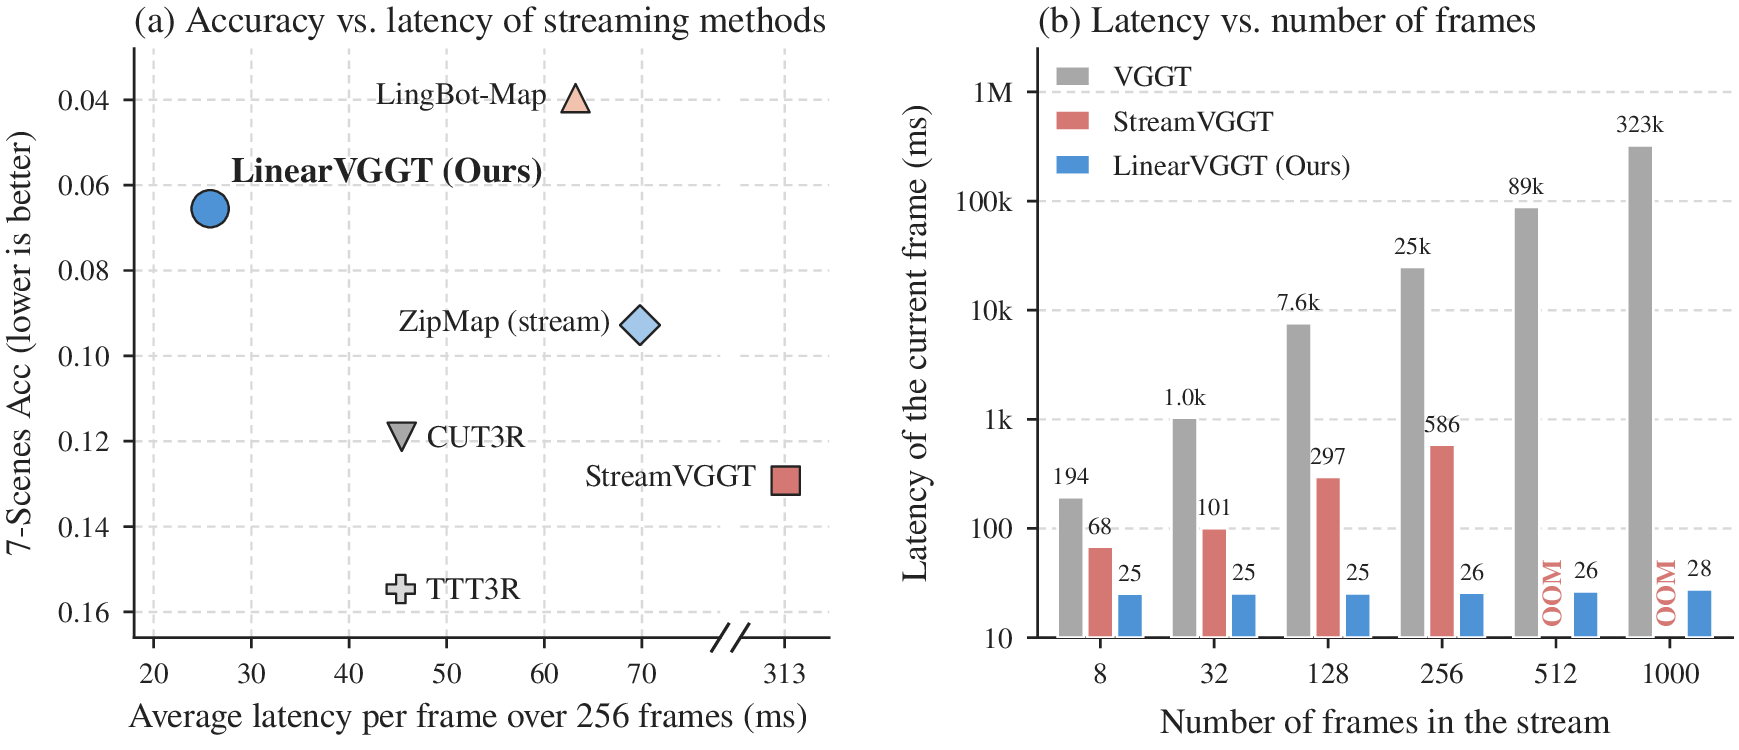
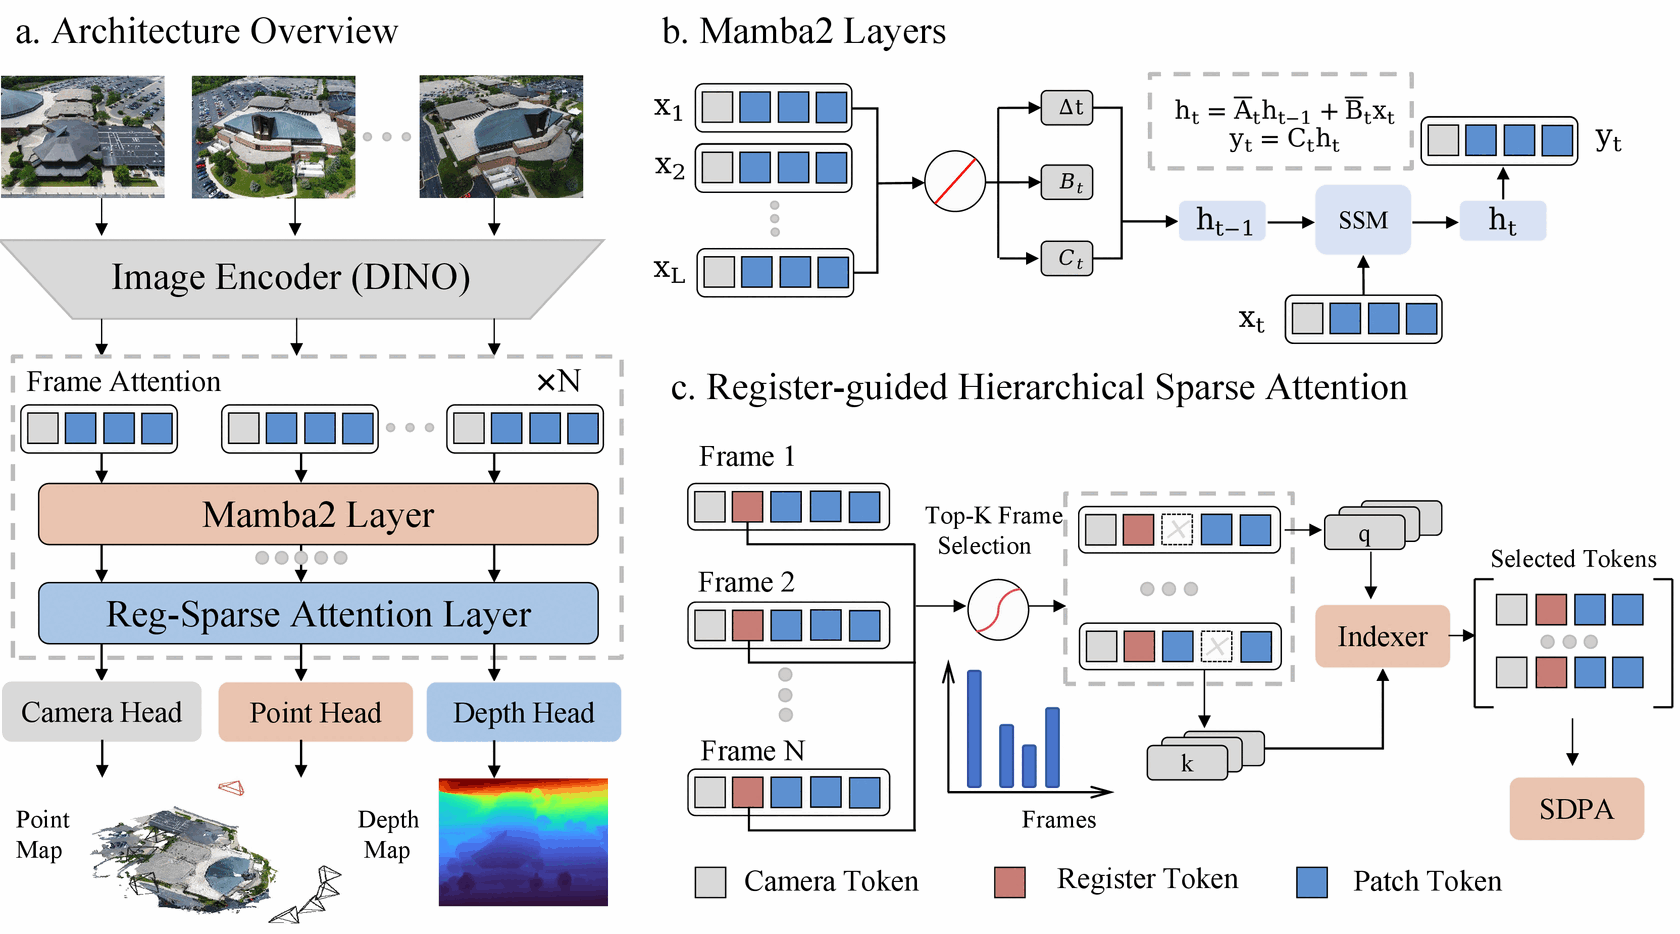
Homepage: publication cards with venue badge, TL;DR and abstract; structured Education; method figure for LinearVGGT; plain-text titles

diff --git a/_sass/layout/_page.scss b/_sass/layout/_page.scss
@@ -246,57 +246,191 @@
   text-transform: uppercase;
 }
 
+/* Research-interest headings above the publication groups */
+.page__content .home-interest-heading {
+  margin: 1.8em 0 0.2em;
+  padding-bottom: 0;
+  border-bottom: 0;
+  font-size: 1.1em;
+  line-height: 1.4;
+}
+
+.home-interest-heading__tag {
+  display: inline-block;
+  margin-right: 0.6em;
+  padding: 0.1em 0.6em;
+  border-radius: 3px;
+  background: #004696;
+  color: #fff;
+  font-size: 0.85em;
+  vertical-align: 0.08em;
+}
+
+/* Publication card: figure (with venue badge) on the left, text on the right */
 .home-publication {
-  margin: 1.5rem 0 2rem;
+  padding: 1.4em 0;
+  border-bottom: 1px solid var(--global-border-color);
 
   @include breakpoint($medium) {
-    display: flex;
-    align-items: flex-start;
-    gap: 1.5rem;
+    display: grid;
+    grid-template-columns: minmax(0, 2fr) minmax(0, 3fr);
+    gap: 1.75em;
+    align-items: start;
   }
 }
 
 .home-publication__image {
-  margin-bottom: 1rem;
+  position: relative;
+  margin-bottom: 1em;
 
   @include breakpoint($medium) {
-    flex: 0 0 38%;
     margin-bottom: 0;
+  }
+
+  a {
+    display: flex;
+    align-items: center;
+    justify-content: center;
+    aspect-ratio: 16 / 10;
+    padding: 0.5em;
+    border: 1px solid var(--global-border-color);
+    border-radius: 6px;
+    background: #fff;
+    box-shadow: 0 1px 5px rgba(0, 0, 0, 0.06);
+    overflow: hidden;
+    transition: box-shadow 0.2s ease, transform 0.2s ease;
+  }
+
+  a:hover {
+    box-shadow: 0 6px 18px rgba(0, 0, 0, 0.12);
+    transform: translateY(-2px);
   }
 
   img {
     display: block;
     width: 100%;
-    height: auto;
-    border: 1px solid var(--global-border-color);
-    box-shadow: 0 6px 20px rgba(#000, 0.12);
+    height: 100%;
+    object-fit: contain;
+    border: 0;
+    box-shadow: none;
   }
+}
+
+.home-publication__badge {
+  position: absolute;
+  z-index: 1;
+  top: 0.6em;
+  left: -0.35em;
+  padding: 0.2em 0.65em;
+  border-radius: 2px;
+  background: #004696;
+  color: #fff;
+  font-size: 0.75em;
+  line-height: 1.4;
 }
 
 .home-publication__content {
   min-width: 0;
-  flex: 1 1 auto;
 }
 
 .page__content .home-publication__title {
-  margin-top: 0;
-  margin-bottom: 0.75rem;
+  margin: 0 0 0.5em;
   padding-bottom: 0;
   border-bottom: 0;
-  line-height: 1.3;
+  font-size: 1.1em;
+  line-height: 1.4;
 }
 
-.home-publication__authors,
-.home-publication__meta,
-.home-publication__links {
-  margin: 0 0 0.75rem;
+.page__content .home-publication__authors {
+  margin: 0 0 0.45em;
+  font-size: 0.94em;
 }
 
-.home-publication__authors {
-  font-size: $type-size-5;
+.page__content .home-publication__links {
+  margin: 0 0 0.6em;
+  font-size: 0.92em;
+
+  a {
+    font-weight: bold;
+  }
 }
 
-.home-publication__meta {
+.home-publication__pending {
+  color: var(--global-text-color-light);
+}
+
+.page__content .home-publication__tldr {
+  margin: 0 0 0.6em;
+  font-size: 0.94em;
+  line-height: 1.6;
+}
+
+.home-publication__details {
+  margin-top: 0.4em;
+
+  > summary {
+    padding: 0.5em 0.75em;
+    border-radius: 4px;
+    background: rgba(127, 127, 127, 0.08);
+    color: var(--global-text-color-light);
+    font-size: 0.9em;
+    cursor: pointer;
+  }
+
+  > summary:hover {
+    background: rgba(127, 127, 127, 0.16);
+  }
+}
+
+.home-publication__abstract {
+  margin-top: 0.6em;
+  padding: 0.85em;
+  border: 1px solid var(--global-border-color);
+  border-radius: 4px;
+  background: rgba(127, 127, 127, 0.05);
+  font-size: 0.9em;
+  line-height: 1.65;
+}
+
+/* Education entries on the home page: school and dates on one line, degree below */
+.home-education {
+  margin: 0 0 1.5rem;
+}
+
+.home-education__item {
+  margin-bottom: 0.9rem;
+}
+
+.home-education__row {
+  display: flex;
+  justify-content: space-between;
+  align-items: baseline;
+  column-gap: 1rem;
+}
+
+/* dates always stay on the right; a long school name wraps instead */
+.home-education__date {
+  flex: none;
+  white-space: nowrap;
+}
+
+.home-education__school {
+  font-weight: bold;
+}
+
+.home-education__date,
+.home-education__degree {
+  color: var(--global-text-color-light);
+}
+
+.home-education__degree {
+  font-style: italic;
+}
+
+/* Small gray note, for example the equal-contribution mark */
+.page__content .home-note {
+  margin: 0 0 0.5rem;
+  font-size: 0.85em;
   color: var(--global-text-color-light);
 }
 

diff --git a/_pages/about.md b/_pages/about.md
@@ -7,7 +7,7 @@ redirect_from:
   - /about.html
 ---
 
-Hi there! I'm a Master student in Computer Science at University of North Carolina at Chapel Hill, advised by [Prof. Tianlong Chen](https://tianlong-chen.github.io/). 
+Hi there! I'm a Master student in Computer Science at University of North Carolina at Chapel Hill, working with [Prof. Tianlong Chen](https://tianlong-chen.github.io/). 
 
 Previously I obtained my bachelor degree in Computer Science from Central South University.
 During my undergraduate studies, I also spent one term as a visiting research student at The Hong Kong University of Science and Technology (Guangzhou), advised by [Prof. Yuyu Luo](https://luoyuyu.vip/). 
@@ -22,49 +22,69 @@ My research centers on building embodied agents that **perceive**, **imagine**, 
 
 Education
 ======
-*M.S. Computer Science, University of North Carolina at Chapel Hill, Aug 2026 - Present*
-*B.Eng. Computer Science, Central South University, Sept 2022 - July 2026*
-
-Selected Publications
-======
-<p><sup>*</sup> indicates equal contribution</p>
-
-Perceive
-------
-*Efficient 3D perception from long video streams.*
-
-<div class="home-publication">
-  <div class="home-publication__image">
-    <a href="https://unites-lab.github.io/linear-vggt/">
-      <img src="/images/LinearVGGT.png" alt="LinearVGGT figure: accuracy against latency, and latency against the number of frames">
-    </a>
+<div class="home-education">
+  <div class="home-education__item">
+    <div class="home-education__row">
+      <span class="home-education__school">University of North Carolina at Chapel Hill</span>
+      <span class="home-education__date">Aug 2026 &ndash; Present</span>
+    </div>
+    <div class="home-education__degree">M.S. in Computer Science</div>
   </div>
-  <div class="home-publication__content">
-    <h3 class="home-publication__title">
-      <a href="https://unites-lab.github.io/linear-vggt/">Linear-time Online Visual Geometry Transformer with Hybrid Architecture</a>
-    </h3>
-    <p class="home-publication__authors"><strong>Haoyu Kang</strong>, Pingzhi Li, Ruichen Zhang, Tianlong Chen</p>
-    <p class="home-publication__meta"><i>Preprint</i>, 2026</p>
-    <p class="home-publication__links">Paper (coming soon) | <a href="https://unites-lab.github.io/linear-vggt/">Project Page</a> | <a href="https://github.com/UNITES-Lab/linear-vggt">Code</a></p>
+  <div class="home-education__item">
+    <div class="home-education__row">
+      <span class="home-education__school">Central South University</span>
+      <span class="home-education__date">Sep 2022 &ndash; July 2026</span>
+    </div>
+    <div class="home-education__degree">B.Eng. in Computer Science</div>
   </div>
 </div>
 
-Imagine
-------
-*Safe and controllable video generation as world simulators.*
+Selected Publications
+======
+<p class="home-note"><sup>*</sup> Equal contribution</p>
+
+<h2 class="home-interest-heading"><span class="home-interest-heading__tag">Perceive</span>Efficient 3D perception from long video streams</h2>
 
 <div class="home-publication">
   <div class="home-publication__image">
-    <a href="https://arxiv.org/abs/2606.25592">
-      <img src="/images/VPA-Guard.png" alt="VPA-Guard figure">
+    <span class="home-publication__badge">Preprint 2026</span>
+    <a href="https://unites-lab.github.io/linear-vggt/">
+      <img src="/images/LinearVGGT.png" alt="LinearVGGT method overview" loading="lazy">
     </a>
   </div>
   <div class="home-publication__content">
-    <h3 class="home-publication__title">
-      <a href="https://arxiv.org/abs/2606.25592">VPA-Guard: Defending and Benchmarking Image-to-Video Generation Against Visual Prompt Attacks</a>
-    </h3>
+    <h3 class="home-publication__title">Linear-time Online Visual Geometry Transformer with Hybrid Architecture</h3>
+    <p class="home-publication__authors"><strong>Haoyu Kang</strong>, Pingzhi Li, Ruichen Zhang, Tianlong Chen</p>
+    <p class="home-publication__links"><span class="home-publication__pending">Paper (coming soon)</span> | <a href="https://unites-lab.github.io/linear-vggt/">Project Page</a> | <a href="https://github.com/UNITES-Lab/linear-vggt">Code</a></p>
+    <p class="home-publication__tldr"><strong>TL;DR.</strong> Online 3D reconstruction models either cache all past tokens, so compute grows quadratically with the stream length, or keep a fixed-size state that forgets early geometry. We proposed LinearVGGT, a hybrid model distilled from StreamVGGT. It uses Mamba2 layers in three of every four global layers and register-guided sparse attention in the other layers to retrieve relevant past frames. LinearVGGT keeps an almost constant latency of 27&nbsp;ms per frame over 1,024 frames, is on average 12&times; faster than StreamVGGT, and outperforms its teacher.</p>
+    <details class="home-publication__details">
+      <summary>Abstract</summary>
+      <div class="home-publication__abstract">
+        Transformer-based 3D reconstruction models such as VGGT and &pi;&sup3; predict cameras, depth and point maps directly from many input views. Causal attention models such as StreamVGGT extend them to online video but cache all past tokens, so their total compute grows quadratically with the stream length. Recurrent models such as CUT3R and TTT3R keep a fixed-size state at constant cost, but they progressively forget early geometry. We present LinearVGGT, a hybrid model distilled from StreamVGGT, which uses Mamba2 layers for efficient sequence modeling in three of every four global layers. The remaining layers use register-guided sparse attention to retrieve a few relevant past frames, compensating for the limited exact long-range recall of Mamba2. Our distillation needs only 9% of the GPU hours and 31% of the training frames that StreamVGGT uses to learn from VGGT. LinearVGGT keeps an almost constant latency of 27&nbsp;ms per frame over 1,024 frames and is on average 12 times faster than StreamVGGT. It outperforms its teacher and is competitive with the state-of-the-art streaming model LingBot-Map, while running 2.5&times; faster and using 2.7&times; less memory.
+      </div>
+    </details>
+  </div>
+</div>
+
+<h2 class="home-interest-heading"><span class="home-interest-heading__tag">Imagine</span>Safe and controllable video generation as world simulators</h2>
+
+<div class="home-publication">
+  <div class="home-publication__image">
+    <span class="home-publication__badge">arXiv 2026</span>
+    <a href="https://arxiv.org/abs/2606.25592">
+      <img src="/images/VPA-Guard.png" alt="VPA-Guard overview" loading="lazy">
+    </a>
+  </div>
+  <div class="home-publication__content">
+    <h3 class="home-publication__title">VPA-Guard: Defending and Benchmarking Image-to-Video Generation Against Visual Prompt Attacks</h3>
     <p class="home-publication__authors">Yining Sun<sup>*</sup>, <strong>Haoyu Kang</strong><sup>*</sup>, et al., Alex Jinpeng Wang</p>
-    <p class="home-publication__meta"><i>arXiv</i>, 2026</p>
     <p class="home-publication__links"><a href="https://arxiv.org/abs/2606.25592">Paper</a> | <a href="https://github.com/HaoyuLucasKang/VPA-Guard">Code</a> | <a href="https://huggingface.co/datasets/CSU-JPG/VVA-Bench">Data</a></p>
+    <p class="home-publication__tldr"><strong>TL;DR.</strong> Visual cues in an input image, such as arrows, sketches and emojis, can make image-to-video models generate harmful actions. We built VVA-Bench, the first systematic benchmark for this type of attack. On VVA-Bench, the attack success rate is 100% on Wan&nbsp;2.7 and 74.8% on Veo&nbsp;3.1. We proposed VPA-Guard, a retrieval-augmented and self-evolving defense. It decreases the attack success rate by 44.2% on average and keeps the model useful for legitimate edits.</p>
+    <details class="home-publication__details">
+      <summary>Abstract</summary>
+      <div class="home-publication__abstract">
+        Recent advancements in Image-to-Video (I2V) generation have transformed input images from simple appearance references into interactive control interfaces where visual cues such as arrows, sketches, and emojis orchestrate complex video dynamics with unprecedented controllability. However, these seemingly innocuous static cues can be interpreted by models as executable temporal instructions, unfolding into harmful actions in the generated videos. Despite the severity of this threat, existing safety benchmarks remain predominantly focused on text-based and content-only image-based jailbreaks, leaving implicit visual prompt attacks insufficiently explored. To bridge this gap, we present VVA-Bench, the first systematic benchmark for evaluating video generation safety under categorized vision-centric prompt attacks. Extensive experiments on VVA-Bench demonstrate that state-of-the-art models are highly susceptible to such attacks, with Attack Success Rates (ASR) reaching 100.0% on Wan 2.7 and 74.8% on Veo 3.1. To mitigate these risks, we propose VPA-Guard, a retrieval-augmented and self-evolving defense framework. By leveraging few-shot reasoning to identify latent malicious intents, our method reduces the attack ASR by 44.2% and the harmfulness score by 73.4% on average, while maintaining the model's utility for legitimate user edits. Our work provides both a rigorous benchmark and an effective defense strategy to advance safe and socially responsible multimodal generation.
+      </div>
+    </details>
   </div>
 </div>
